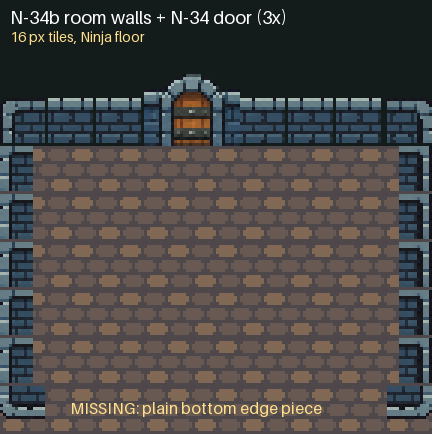
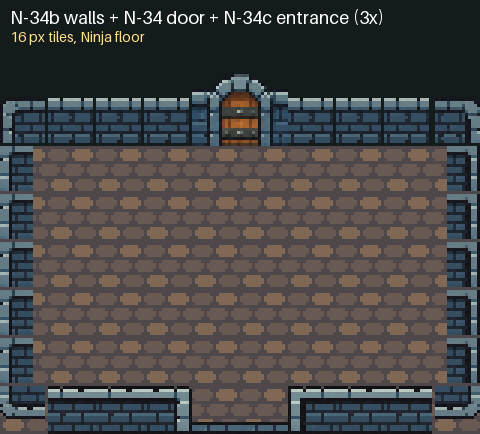
art(blobz): slice N-34c room entrance + plain bottom wall, room test v2
Claude-Session: https://claude.ai/code/session_019PjhQv7Xfjv9fRCZgvquZ1

diff --git a/blobz/scripts/room_walls.py b/blobz/scripts/room_walls.py
@@ -2,7 +2,7 @@
 """N-34b dungeon room walls (ChatGPT, docs/art-review/n34b-room-walls.png) -> 16 px tiles + a 3x room test.
 
 usage (from blobz/): python3 scripts/room_walls.py
-  -> public/art/dungeon/wall-{tl,t,tr,l,r,bl,br}.png (16x16) + docs/art-review/n34-room-test.png
+  -> public/art/dungeon/wall-{tl,t,tr,l,r,bl,br}.png (16x16) + wall-{b,entrance-l,entrance-mid,entrance-r}.png + docs/art-review/n34-room-test.png
 
 Every piece has a 1 art px outline all round; where a piece joins another wall piece (top edge left/right, top
 corners towards the edge, sides top/bottom, bottom corners top) that outline is cut off before sampling, so the
@@ -17,7 +17,8 @@ the 16 px row (7% squash). Outline-keeping sampler (a cell that is 30%+ near-bla
                    where row k and row k+16 match best, so they tile vertically
   wall-bl / wall-br: 16 wide x 13 tall, top-aligned in the 16 px cell (bricks continue from the side above, stone
                    bottom edge on row 12, floor shows below)
-MISSING from the delivery: a plain bottom edge (between wall-bl and wall-br) and inner corners.
+N-34c (entrance strip) adds wall-b (plain bottom edge) and wall-entrance-{l,mid,r}, see entrance().
+Still MISSING: inner corners.
 """
 import os
 import sys
@@ -122,8 +123,49 @@ def slice_all():
     return out
 
 
+def best_window(g, lo, hi):
+    """16-col window starting in [lo, hi] whose first col matches the col after it (tiles left/right)."""
+    d = {k: int(np.abs(g[:, k].astype(int) - g[:, k + 16]).sum()) for k in range(lo, hi + 1) if k + 16 < g.shape[1]}
+    k = min(d, key=d.get)
+    return g[:, k:k + 16], k
+
+
+def entrance():
+    """N-34c (docs/art-review/n34c-room-entrance.png): bottom wall | pillar | low threshold | pillar | bottom wall.
+    Sampled whole at pitch 248 / 16 = 15.5 (16 rows; bricks ~6 art px like the rest) -> a 16 x 69 strip: left wall
+    cols 0-19, left pillar 20-24, threshold 25-43 (rows 12-15 only: the opening), right pillar 44-48, right wall 49-68.
+      wall-b              16 cols of the left wall, window where col k == col k+16 (tiles left/right)
+      wall-entrance-l     cols 9-24: wall bricks + the left pillar (its outline faces the opening)
+      wall-entrance-mid   16 cols of the threshold, window where col k == col k+16 (repeat it for a wider opening)
+      wall-entrance-r     cols 44-59: the right pillar + wall bricks"""
+    rgb, m = load('n34c-room-entrance.png')
+    x0, x1, y0, y1 = 233, 1303, 446, 695
+    p = (y1 - y0) / 16
+    a, b = rgb[y0 - 8:y1 + 8, x0 - 8:x1 + 8], m[y0 - 8:y1 + 8, x0 - 8:x1 + 8]
+    best = None
+    for ox in np.arange(0, p, p / 8):
+        for oy in np.arange(0, p, p / 8):
+            g, sp = grid(a, b, p, p, ox, oy)
+            n = (g[:, :, 3] > 0).sum()
+            if n and (best is None or sp / n < best[0]):
+                best = (sp / n, g)
+    g = best[1]
+    ys, xs = np.where(g[:, :, 3] > 0)
+    g = g[ys.min():ys.max() + 1, xs.min():xs.max() + 1]
+    assert g.shape[:2] == (16, 69), g.shape
+    out = {}
+    out['b'], kb = best_window(g, 1, 3)
+    out['entrance-l'] = g[:, 9:25]
+    out['entrance-mid'], km = best_window(g, 25, 27)
+    out['entrance-r'] = g[:, 44:60]
+    for k, arr in out.items():
+        Image.fromarray(np.ascontiguousarray(arr)).save(os.path.join(DUN, f'wall-{k}.png'))
+    print('N-34c pitch', round(p, 2), 'wall-b from col', kb, 'threshold from col', km)
+    return out
+
+
 def room(w):
-    S, TW, TH = 3, 9, 7
+    S, TW, TH = 3, 10, 7
     na = os.path.join(ROOT, 'public', 'assets', 'ninja-adventure', 'Backgrounds', 'Tilesets', 'Interior', 'TilesetInteriorFloor.png')
     fl = Image.open(na).convert('RGBA').crop((192, 208, 208, 224))
     im = Image.new('RGBA', (TW * 16, TH * 16 + 16), (20, 27, 27, 255))
@@ -132,7 +174,7 @@ def room(w):
             im.alpha_composite(fl, (x * 16, y * 16 + 16))
     T = {k: Image.fromarray(a) for k, a in w.items()}
     oy = 16  # one spare row above for the door's overhang
-    dx = TW // 2 - 1  # door covers tiles dx, dx+1 of the top row
+    dx = TW // 2 - 1  # door covers tiles dx, dx+1 of the top row (above the entrance's 2 threshold tiles)
     for x in range(TW):
         key = 'tl' if x == 0 else 'tr' if x == TW - 1 else 't'
         if key == 't' and x in (dx, dx + 1):
@@ -141,15 +183,18 @@ def room(w):
     for y in range(1, TH - 1):
         im.alpha_composite(T['l'], (0, oy + y * 16))
         im.alpha_composite(T['r'], ((TW - 1) * 16, oy + y * 16))
-    im.alpha_composite(T['bl'], (0, oy + (TH - 1) * 16))
-    im.alpha_composite(T['br'], ((TW - 1) * 16, oy + (TH - 1) * 16))
+    yb = oy + (TH - 1) * 16
+    bottom = ['b'] * TW
+    bottom[3:7] = ['entrance-l', 'entrance-mid', 'entrance-mid', 'entrance-r']  # opening under the door
+    for x in range(1, TW - 1):
+        im.alpha_composite(T[bottom[x]], (x * 16, yb))
+    im.alpha_composite(T['bl'], (0, yb))
+    im.alpha_composite(T['br'], ((TW - 1) * 16, yb))
     door = Image.open(os.path.join(DUN, 'door-closed-32.png')).convert('RGBA')
     im.alpha_composite(door, (dx * 16, oy + 16 - 32))  # door's floor line on the top wall's bottom row
     big = im.resize((im.width * S, im.height * S), Image.NEAREST)
-    d = ImageDraw.Draw(big)
-    d.text((70, (oy + (TH - 1) * 16 + 4) * S), 'MISSING: plain bottom edge piece', fill='#ffe18d', font_size=16)
     bar = Image.new('RGBA', (big.width, 50), (20, 27, 27, 255))
-    ImageDraw.Draw(bar).text((10, 6), 'N-34b room walls + N-34 door (3x)', fill='white', font_size=18)
+    ImageDraw.Draw(bar).text((10, 6), 'N-34b walls + N-34 door + N-34c entrance (3x)', fill='white', font_size=18)
     ImageDraw.Draw(bar).text((10, 28), '16 px tiles, Ninja floor', fill='#ffe18d', font_size=14)
     out = Image.new('RGBA', (big.width, big.height + 50))
     out.paste(bar, (0, 0))
@@ -159,4 +204,6 @@ def room(w):
 
 
 if __name__ == '__main__':
-    room(slice_all())
+    w = slice_all()
+    w.update(entrance())
+    room(w)

diff --git a/blobz/scripts/asset_index.py b/blobz/scripts/asset_index.py
@@ -26,7 +26,7 @@ OWN = 'Own art (CC0)'
 CC0K = 'CC0 1.0 (Kenney)'
 # (glob on the path under public/, source, license, approved?) first match wins
 SOURCES = [
-    ('art/dungeon/wall-*.png', 'ChatGPT N-34b room walls, sliced by scripts/room_walls.py', GPT, False),
+    ('art/dungeon/wall-*.png', 'ChatGPT N-34b room walls / N-34c entrance (wall-b, wall-entrance-*), sliced by scripts/room_walls.py', GPT, False),
     ('art/dungeon/door-*.png', 'ChatGPT N-34 dungeon room door, sliced by scripts/slice_grid_orders.py n34', GPT, False),
     ('art/props/plate-*.png', 'ChatGPT N-30 pressure plate, sliced by scripts/slice_grid_orders.py', GPT, True),
     ('art/props/fence-*.png', 'ChatGPT N-30b fence 3-piece set, sliced by scripts/fence_pieces.py (pen v4 rating pending; N-S: post every tile, rail-v centre strip on top)', GPT, False),

diff --git a/blobz/docs/ASSET_INDEX.md b/blobz/docs/ASSET_INDEX.md
@@ -11,13 +11,13 @@ fails if an image under `public/` is missing here. Licenses: `public/assets/LICE
   image / CSS background or border image / canvas icon, or a WebGL texture bound at a Phaser draw call); CODE ONLY =
   referenced but never shown in the run (remove the reference and the file); UNUSED = no reference and never shown.
 
-**Runtime run:** 2026-11-15, e2e all 16 scripts passed. **Own files:** CODE ONLY 195 / IN GAME 27 / UNUSED 82.
+**Runtime run:** 2026-11-15, e2e all 16 scripts passed. **Own files:** CODE ONLY 195 / IN GAME 27 / UNUSED 86.
 
 **Claude-drawn still IN GAME** (0): none
 
 **Kenney still IN GAME** (0): none
 
-**Counts by source:** ChatGPT 253 / Claude-drawn 29 / Kenney 5 / Ninja 2037 / Ninja crop 17 (Ninja: 112 referenced by code). **Own files:** 304, 14 delete candidates.
+**Counts by source:** ChatGPT 257 / Claude-drawn 29 / Kenney 5 / Ninja 2037 / Ninja crop 17 (Ninja: 112 referenced by code). **Own files:** 308, 18 delete candidates.
 
 ## Own files (art, Kenney, app icons)
 
@@ -137,13 +137,17 @@ fails if an image under `public/` is missing here. Licenses: `public/assets/LICE
 | `art/dungeon/ui/hazard-ring-2.png` | 48x32 | ChatGPT N-19 / N-21 dungeon UI, sliced by scripts/slice_grid_orders.py | ChatGPT image generation for this project (supplied by Stefan) | UNUSED | UNUSED | keep (approved ChatGPT, not wired yet) |
 | `art/dungeon/ui/hazard-ring-3.png` | 48x32 | ChatGPT N-19 / N-21 dungeon UI, sliced by scripts/slice_grid_orders.py | ChatGPT image generation for this project (supplied by Stefan) | UNUSED | UNUSED | keep (approved ChatGPT, not wired yet) |
 | `art/dungeon/ui/hazard-ring.png` | 192x32 | ChatGPT N-19 / N-21 dungeon UI, sliced by scripts/slice_grid_orders.py | ChatGPT image generation for this project (supplied by Stefan) | CODE ONLY | src/dungeonScene.ts:143 | keep |
-| `art/dungeon/wall-bl.png` | 16x16 | ChatGPT N-34b room walls, sliced by scripts/room_walls.py | ChatGPT image generation for this project (supplied by Stefan) | UNUSED | UNUSED | delete |
-| `art/dungeon/wall-br.png` | 16x16 | ChatGPT N-34b room walls, sliced by scripts/room_walls.py | ChatGPT image generation for this project (supplied by Stefan) | UNUSED | UNUSED | delete |
-| `art/dungeon/wall-l.png` | 16x16 | ChatGPT N-34b room walls, sliced by scripts/room_walls.py | ChatGPT image generation for this project (supplied by Stefan) | UNUSED | UNUSED | delete |
-| `art/dungeon/wall-r.png` | 16x16 | ChatGPT N-34b room walls, sliced by scripts/room_walls.py | ChatGPT image generation for this project (supplied by Stefan) | UNUSED | UNUSED | delete |
-| `art/dungeon/wall-t.png` | 16x16 | ChatGPT N-34b room walls, sliced by scripts/room_walls.py | ChatGPT image generation for this project (supplied by Stefan) | UNUSED | UNUSED | delete |
-| `art/dungeon/wall-tl.png` | 16x16 | ChatGPT N-34b room walls, sliced by scripts/room_walls.py | ChatGPT image generation for this project (supplied by Stefan) | UNUSED | UNUSED | delete |
-| `art/dungeon/wall-tr.png` | 16x16 | ChatGPT N-34b room walls, sliced by scripts/room_walls.py | ChatGPT image generation for this project (supplied by Stefan) | UNUSED | UNUSED | delete |
+| `art/dungeon/wall-b.png` | 16x16 | ChatGPT N-34b room walls / N-34c entrance (wall-b, wall-entrance-*), sliced by scripts/room_walls.py | ChatGPT image generation for this project (supplied by Stefan) | UNUSED | UNUSED | delete |
+| `art/dungeon/wall-bl.png` | 16x16 | ChatGPT N-34b room walls / N-34c entrance (wall-b, wall-entrance-*), sliced by scripts/room_walls.py | ChatGPT image generation for this project (supplied by Stefan) | UNUSED | UNUSED | delete |
+| `art/dungeon/wall-br.png` | 16x16 | ChatGPT N-34b room walls / N-34c entrance (wall-b, wall-entrance-*), sliced by scripts/room_walls.py | ChatGPT image generation for this project (supplied by Stefan) | UNUSED | UNUSED | delete |
+| `art/dungeon/wall-entrance-l.png` | 16x16 | ChatGPT N-34b room walls / N-34c entrance (wall-b, wall-entrance-*), sliced by scripts/room_walls.py | ChatGPT image generation for this project (supplied by Stefan) | UNUSED | UNUSED | delete |
+| `art/dungeon/wall-entrance-mid.png` | 16x16 | ChatGPT N-34b room walls / N-34c entrance (wall-b, wall-entrance-*), sliced by scripts/room_walls.py | ChatGPT image generation for this project (supplied by Stefan) | UNUSED | UNUSED | delete |
+| `art/dungeon/wall-entrance-r.png` | 16x16 | ChatGPT N-34b room walls / N-34c entrance (wall-b, wall-entrance-*), sliced by scripts/room_walls.py | ChatGPT image generation for this project (supplied by Stefan) | UNUSED | UNUSED | delete |
+| `art/dungeon/wall-l.png` | 16x16 | ChatGPT N-34b room walls / N-34c entrance (wall-b, wall-entrance-*), sliced by scripts/room_walls.py | ChatGPT image generation for this project (supplied by Stefan) | UNUSED | UNUSED | delete |
+| `art/dungeon/wall-r.png` | 16x16 | ChatGPT N-34b room walls / N-34c entrance (wall-b, wall-entrance-*), sliced by scripts/room_walls.py | ChatGPT image generation for this project (supplied by Stefan) | UNUSED | UNUSED | delete |
+| `art/dungeon/wall-t.png` | 16x16 | ChatGPT N-34b room walls / N-34c entrance (wall-b, wall-entrance-*), sliced by scripts/room_walls.py | ChatGPT image generation for this project (supplied by Stefan) | UNUSED | UNUSED | delete |
+| `art/dungeon/wall-tl.png` | 16x16 | ChatGPT N-34b room walls / N-34c entrance (wall-b, wall-entrance-*), sliced by scripts/room_walls.py | ChatGPT image generation for this project (supplied by Stefan) | UNUSED | UNUSED | delete |
+| `art/dungeon/wall-tr.png` | 16x16 | ChatGPT N-34b room walls / N-34c entrance (wall-b, wall-entrance-*), sliced by scripts/room_walls.py | ChatGPT image generation for this project (supplied by Stefan) | UNUSED | UNUSED | delete |
 | `art/dungeon/weapons/crossbow-16.png` | 16x16 | ChatGPT N-11 class weapons, sliced by scripts/slice_grid_orders.py | ChatGPT image generation for this project (supplied by Stefan) | IN GAME | src/dungeonUi.ts:44, src/dungeonScene.ts:41 | keep |
 | `art/dungeon/weapons/crossbow-32.png` | 32x32 | ChatGPT N-11 class weapons, sliced by scripts/slice_grid_orders.py | ChatGPT image generation for this project (supplied by Stefan) | UNUSED | UNUSED | keep (approved ChatGPT, not wired yet) |
 | `art/dungeon/weapons/dagger-16.png` | 16x16 | ChatGPT N-11 class weapons, sliced by scripts/slice_grid_orders.py | ChatGPT image generation for this project (supplied by Stefan) | CODE ONLY | src/dungeonUi.ts:44 | keep |
@@ -702,8 +706,12 @@ See `archive/README.md`.
 - `art/dungeon/door-closed-48.png`
 - `art/dungeon/door-open-32.png`
 - `art/dungeon/door-open-48.png`
+- `art/dungeon/wall-b.png`
 - `art/dungeon/wall-bl.png`
 - `art/dungeon/wall-br.png`
+- `art/dungeon/wall-entrance-l.png`
+- `art/dungeon/wall-entrance-mid.png`
+- `art/dungeon/wall-entrance-r.png`
 - `art/dungeon/wall-l.png`
 - `art/dungeon/wall-r.png`
 - `art/dungeon/wall-t.png`

diff --git a/blobz/docs/ART_ORDERS.md b/blobz/docs/ART_ORDERS.md
@@ -46,7 +46,8 @@ ChatGPT works only on N-orders with status TO DO (next: none, queue empty). Chat
 | Id | Status | Order | Replaces (Art slices into) |
 |---|---|---|---|
 | N-34 | DONE (received 2026-11-15; sliced to art/dungeon/door-{closed,open}-{32,48}.png by scripts/slice_grid_orders.py n34) | Dungeon room door for the Archero rooms, closed + open, 32x32 + 48x32 | `art/dungeon/door-*` |
-| N-34b | DONE (received 2026-11-15, unordered extra; sliced to art/dungeon/wall-{tl,t,tr,l,r,bl,br}.png 16x16 by scripts/room_walls.py; room test docs/art-review/n34-room-test.png; MISSING: plain bottom edge, inner corners) | Dungeon room walls matching the N-34 door: top corners + top edge, left/right side, bottom corners | `art/dungeon/wall-*` |
+| N-34b | DONE (received 2026-11-15, unordered extra; sliced to art/dungeon/wall-{tl,t,tr,l,r,bl,br}.png 16x16 by scripts/room_walls.py; room test docs/art-review/n34-room-test.png; MISSING: inner corners; the plain bottom edge came with N-34c) | Dungeon room walls matching the N-34 door: top corners + top edge, left/right side, bottom corners | `art/dungeon/wall-*` |
+| N-34c | DONE (received 2026-11-15, asked by Stefan; sliced by scripts/room_walls.py to art/dungeon/wall-b.png (plain bottom edge) + wall-entrance-{l,mid,r}.png, 16x16; in docs/art-review/n34-room-test.png) | Room entrance: bottom wall with an opening (wall, pillar, low threshold, pillar, wall), same set as N-34/N-34b | `art/dungeon/wall-b`, `wall-entrance-*` |
 | N-1 | DONE (C chosen) | Title header / logo in Ninja Adventure style | `art/logo.png` |
 | N-2 | DONE (portrait + landscape) | Start screen background | `art/title.png` |
 | N-3 | DONE | Loading screen (portrait + landscape approved) | `art/loading.png`, `art/loading-landscape.png` |
